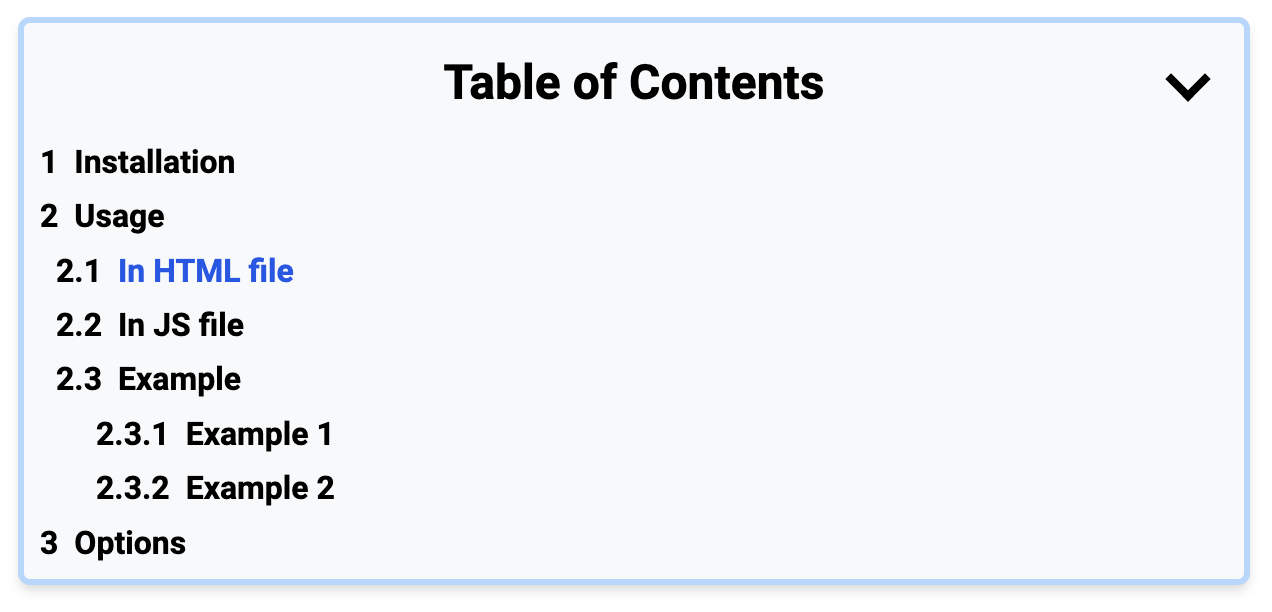
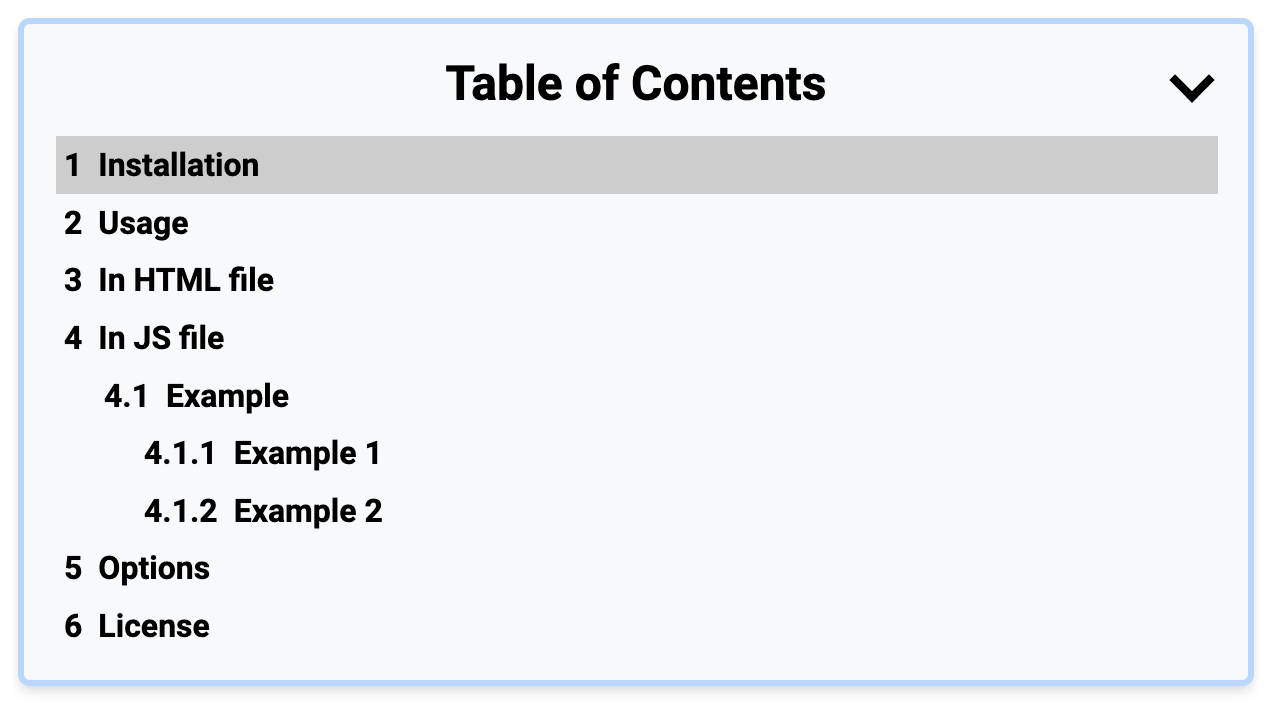
Update

Changed region(s): [[0.0, 0.0, 1.0, 0.9935], [0.0307, 0.7761, 0.2759, 0.8382]]

diff --git a/index.js b/index.js
@@ -5,19 +5,21 @@ Element.prototype.toc = function(options = {}) {
 
   const defaultOptions = {
     tocSelector: '#toc',
+    maxHeight: '75vh',
+    activeClass: 'js-toc-active',
+    autoOpen: true,
     tocIndent: true,
     tocNumber: true,
-    smooth: true,
-    maxHeight: '70vh'
+    smoothScroll: true,
   }
   options = { ...defaultOptions, ...options }
 
   const tocContainer = document.querySelector(options.tocSelector)
 
   // Add default toc title if not exists
-  if (!tocContainer.querySelector('.toc-title')) {
+  if (!tocContainer.querySelector('.js-toc-title')) {
     const tocTitle = document.createElement('div')
-    tocTitle.classList.add('toc-title')
+    tocTitle.classList.add('js-toc-title')
     tocTitle.textContent = 'Table of Contents'
     tocContainer.appendChild(tocTitle)
   }
@@ -51,7 +53,7 @@ Element.prototype.toc = function(options = {}) {
       event.preventDefault()
       const targetId = event.target.getAttribute('href').slice(1)
       const targetElement = document.getElementById(targetId)
-      targetElement.scrollIntoView({ behavior: options.smooth ? 'smooth' : 'auto' })
+      targetElement.scrollIntoView({ behavior: options.smoothScroll ? 'smooth' : 'auto' })
       history.pushState(null, null, `#${targetId}`)
     })
 
@@ -59,9 +61,9 @@ Element.prototype.toc = function(options = {}) {
     if (options.tocNumber) listItem.textContent = sectionNumber
     listItem.appendChild(anchor)
 
-    listItem.classList.add('toc-item')
+    listItem.classList.add('js-toc-item')
     if (options.tocIndent) {
-      const className = `toc-${heading.tagName.toLowerCase()}`
+      const className = `js-toc-${heading.tagName.toLowerCase()}`
       listItem.classList.add(className)
     }
 
@@ -69,7 +71,7 @@ Element.prototype.toc = function(options = {}) {
   }
 
   var tocContent = document.createElement('div')
-  tocContent.classList.add('toc-content')
+  tocContent.classList.add('js-toc-content')
   tocContent.style.maxHeight = options.maxHeight
   tocContainer.appendChild(tocContent)
   tocContent.appendChild(toc)
@@ -81,15 +83,13 @@ Element.prototype.toc = function(options = {}) {
   toggleButton.id = "tocContentToggle"
   tocContainer.appendChild(toggleButton)
 
+  if (!options.autoOpen) closeTOC()
+
   toggleButton.addEventListener("click", function() {
-    if (tocContent.style.height !== '0px') {
-      tocContent.style.height = '0px'
-      toggleButton.classList.remove('chevron-down')
-      toggleButton.classList.add('chevron-left')
+    if (isOpen()) {
+      closeTOC()
     } else {
-      tocContent.style.height = tocContent.scrollHeight + 'px'
-      toggleButton.classList.remove('chevron-left')
-      toggleButton.classList.add('chevron-down')
+      openTOC()
     }
   })
 
@@ -101,7 +101,7 @@ Element.prototype.toc = function(options = {}) {
   
     headings.forEach(function (heading, index) {
       let i = index + 1;
-      let target = document.querySelector('#toc li:nth-of-type(' + i + ') > a');
+      let target = document.querySelector('#toc li:nth-of-type(' + i + ')');
       let pos = heading.getBoundingClientRect().top + scroll
       if (!target) return
   
@@ -109,18 +109,18 @@ Element.prototype.toc = function(options = {}) {
         if (headings[index + 1] !== undefined) {
           let next_pos = headings[index + 1].getBoundingClientRect().top + scroll
           if (scroll > next_pos - height + offset) {
-            target.classList.remove('toc-active')
+            target.classList.remove(options.activeClass)
           } else if (i === 1 && tocContainer.classList.contains('active') === false) {
-            target.classList.add('toc-active')
+            target.classList.add(options.activeClass)
             tocContainer.classList.add('active')
           } else { 
-            target.classList.add('toc-active')
+            target.classList.add(options.activeClass)
           }
         } else {
-          target.classList.add('toc-active')
+          target.classList.add(options.activeClass)
         }
       } else {
-        target.classList.remove('toc-active')
+        target.classList.remove(options.activeClass)
         if (i === 1 && tocContainer.classList.contains('active')) {
           tocContainer.classList.remove('active')
         }
@@ -134,7 +134,23 @@ Element.prototype.toc = function(options = {}) {
     const anchorElement = document.getElementById(anchorId);
   
     if (anchorElement) {
-      anchorElement.scrollIntoView({ behavior: options.smooth ? 'smooth' : 'auto' })
+      anchorElement.scrollIntoView({ behavior: options.smoothScroll ? 'smooth' : 'auto' })
     }
+  }
+
+  function closeTOC() {
+    tocContent.style.height = '0px'
+    toggleButton.classList.remove('chevron-down')
+    toggleButton.classList.add('chevron-left') 
+  }
+
+  function openTOC() {
+    tocContent.style.height = tocContent.scrollHeight + 'px'
+    toggleButton.classList.remove('chevron-left')
+    toggleButton.classList.add('chevron-down')
+  }
+
+  function isOpen() {
+    return tocContent.style.height !== '0px'
   }
 }

diff --git a/style.min.css b/style.min.css
@@ -1,1 +1,1 @@
-.toc-container{position:relative;border-radius:.375rem;box-shadow:0 4px 6px -1px rgba(0,0,0,0.1),0 2px 4px -1px rgba(0,0,0,0.06);background-color:#f9fafb;border-width:.2rem;border-color:#bfdbfe;padding:.75rem .5rem .25rem}.toc-container ::-webkit-scrollbar{-webkit-appearance:none;width:7px}.toc-container ::-webkit-scrollbar-thumb{border-radius:5px;background-color:rgba(0,0,0,0.5);-webkit-box-shadow:0 0 1px rgba(255,255,255,0.5)}.toc-container .toc-title{text-align:center;font-size:1.5rem;font-weight:bold;padding-bottom:.5rem}.toc-container .toc-content{overflow-y:scroll;transition:height .2s ease-out;font-weight:bold}.toc-container .toc-content .toc-active{color:#2563eb}.toc-container .toc-content .toc-item{padding:.1em 0}.toc-container .toc-content .toc-item a{padding:.25em .5em}.toc-container .toc-content .toc-item a:hover{color:#2563eb}.toc-container .toc-content .toc-h2{margin-left:.5em}.toc-container .toc-content .toc-h3{margin-left:1.75em}.toc-container .toc-content .toc-h4{margin-left:3em}.toc-container .toc-content .toc-h5{margin-left:4.25em}.toc-container .toc-content .toc-h6{margin-left:5.5em}.toc-container #tocContentToggle{position:absolute;top:.5rem;right:.5rem;padding:.5rem;cursor:pointer}.toc-container #tocContentToggle:hover{background:#ddd}.toc-container .chevron-down{box-sizing:border-box;position:relative;display:block;transform:scale(var(--ggs,1));width:40px;height:40px;border:4px solid transparent;border-radius:100px}.toc-container .chevron-down::after{content:"";display:block;box-sizing:border-box;position:absolute;width:16px;height:16px;border-bottom:4px solid;border-right:4px solid;transform:rotate(45deg)}.toc-container .chevron-left{box-sizing:border-box;position:relative;display:block;transform:scale(var(--ggs,1));width:40px;height:40px;border:4px solid transparent;border-radius:100px}.toc-container .chevron-left::after{content:"";display:block;box-sizing:border-box;position:absolute;width:16px;height:16px;border-bottom:4px solid;border-left:4px solid;transform:rotate(45deg)}
+.js-toc-container{position:relative;border-radius:.375rem;box-shadow:0 4px 6px -1px rgba(0,0,0,0.1),0 2px 4px -1px rgba(0,0,0,0.06);background-color:#f9fafb;border-width:.2rem;border-color:#bfdbfe;padding:.75rem .5rem .25rem}.js-toc-container ::-webkit-scrollbar{-webkit-appearance:none;width:7px}.js-toc-container ::-webkit-scrollbar-thumb{border-radius:5px;background-color:rgba(0,0,0,0.5);-webkit-box-shadow:0 0 1px rgba(255,255,255,0.5)}.js-toc-container .js-toc-title{text-align:center;font-size:1.5rem;font-weight:bold;padding-bottom:.5rem}.js-toc-container .js-toc-content{overflow-y:scroll;transition:height .2s ease-out;font-weight:bold}.js-toc-container .js-toc-content .js-toc-active{background:lightgray}.js-toc-container .js-toc-content .js-toc-item{display:flex;padding:.15em .25em}.js-toc-container .js-toc-content .js-toc-item a{display:inline-block;flex-grow:1;padding:0 .5em}.js-toc-container .js-toc-content .js-toc-item:hover{color:#2563eb;transition:.2s}.js-toc-container .js-toc-content .js-toc-h2{margin-left:.5em}.js-toc-container .js-toc-content .js-toc-h3{margin-left:1.75em}.js-toc-container .js-toc-content .js-toc-h4{margin-left:3em}.js-toc-container .js-toc-content .js-toc-h5{margin-left:4.25em}.js-toc-container .js-toc-content .js-toc-h6{margin-left:5.5em}.js-toc-container #tocContentToggle{position:absolute;top:.5rem;right:.5rem;padding:.5rem;cursor:pointer}.js-toc-container #tocContentToggle:hover{background:#ddd}.js-toc-container .chevron-down{box-sizing:border-box;position:relative;display:block;transform:scale(var(--ggs,1));width:40px;height:40px;border:4px solid transparent;border-radius:100px}.js-toc-container .chevron-down::after{content:"";display:block;box-sizing:border-box;position:absolute;width:16px;height:16px;border-bottom:4px solid;border-right:4px solid;transform:rotate(45deg)}.js-toc-container .chevron-left{box-sizing:border-box;position:relative;display:block;transform:scale(var(--ggs,1));width:40px;height:40px;border:4px solid transparent;border-radius:100px}.js-toc-container .chevron-left::after{content:"";display:block;box-sizing:border-box;position:absolute;width:16px;height:16px;border-bottom:4px solid;border-left:4px solid;transform:rotate(45deg)}

diff --git a/README.md b/README.md
@@ -5,14 +5,13 @@ A JavaScript plugin that automatically creates a dynamic, SEO-friendly table of 
 **js-toc** offers a suite of powerful features designed to enhance your documentation and articles:
 - 📑 **Dynamic Table of Contents**: Automatically generates a fully functional table of contents based on your document's headings.
 - 🌐 **SEO Friendly**: Adds anchor links to improve navigation and optimize SEO.
-- 🧭 **Smooth Scrolling**: Ensures a smooth, pleasant scrolling experience when navigating to sections.
+- 🧭 **Smooth Scrolling**: Smoothly scrolls to sections, including automatic scrolling to the current anchor when the page is loaded.
 - 🔢 **Automatic Numbering**: Automatically assigns hierarchical numbers to sections, enhancing clarity.
 - 📐 **Optional Indentation**: Customizable indentation levels to reflect the structure of your document visually.
 - ♿ **Enhanced Accessibility**: Improves accessibility by providing a clear structure for easier navigation.
 - 💼 **Professional Look**: Gives your content a professional, organized appearance, enhancing usability.
 - 📂 **Collapsible Sections**: Features an easy-to-use toggle to collapse or expand the table of contents, making large documents more manageable.
-- 📏 **Custom Max Height**: Control the table of contents' maximum height with the `maxHeight` option, perfect for fitting TOC sections within a limited space while maintaining usability.
-
+- 📏 **Customizable Options**: Easily customize various features such as TOC height, numbering, indentation, and more for greater flexibility and control.
 
 ![js-toc](./screenshot.png)
 
@@ -65,11 +64,16 @@ document.querySelector('article').toc({
 ## Options
 You can customize the behavior of the table of contents by passing an options object to the toc() method. The following options are available:
 
-- `tocSelector` (default: '#toc'): Specifies the selector for the container where the table of contents will be rendered.
-- `tocIndent` (default: true): Specifies whether or not to indent the table of contents items based on their heading levels.
-- `tocNumber` (default: true): Automatically adds numbers to each table of contents item according to their hierarchy in the document.
-- `smooth` (default: true): Specifies whether or not to enable smooth scrolling to the clicked table of contents item.
-- `maxHeight` (default: '70vh'): Sets a maximum height for the TOC container, making it scrollable if the content exceeds the specified height.
+| Option          | Default               | Description                                                                                       |
+|-----------------|-----------------------|---------------------------------------------------------------------------------------------------|
+| `tocSelector`   | `'#toc'`              | Specifies the selector for the container where the table of contents will be rendered.             |
+| `maxHeight`     | `'75vh'`              | Sets the maximum height for the TOC container, making it scrollable if the content exceeds the height. |
+| `activeClass`   | `'js-toc-active'`     | Specifies the class name for the currently active TOC item as the user scrolls through the document. |
+| `tocIndent`     | `true`                | Indents the TOC items based on their heading levels.                                               |
+| `tocNumber`     | `true`                | Automatically adds numbers to each TOC item according to its hierarchy.                            |
+| `smoothScroll`  | `true`                | Enables smooth scrolling to the clicked TOC item.                                                  |
+| `autoOpen`      | `true`                | Automatically opens the TOC on page load. If set to `false`, the TOC will start in a collapsed state. |
+
 
 ## Use with Ruby on Rails and turbo-rails
 
